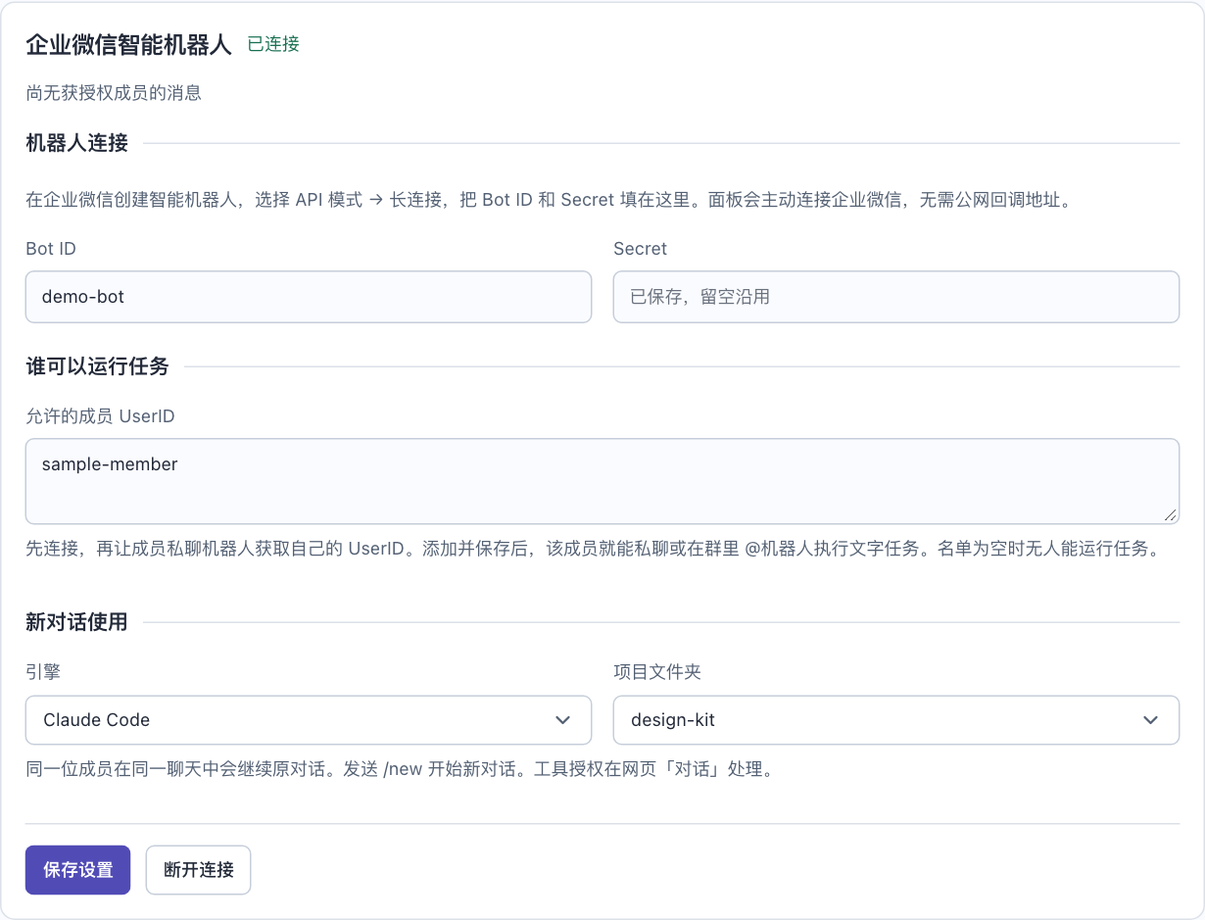
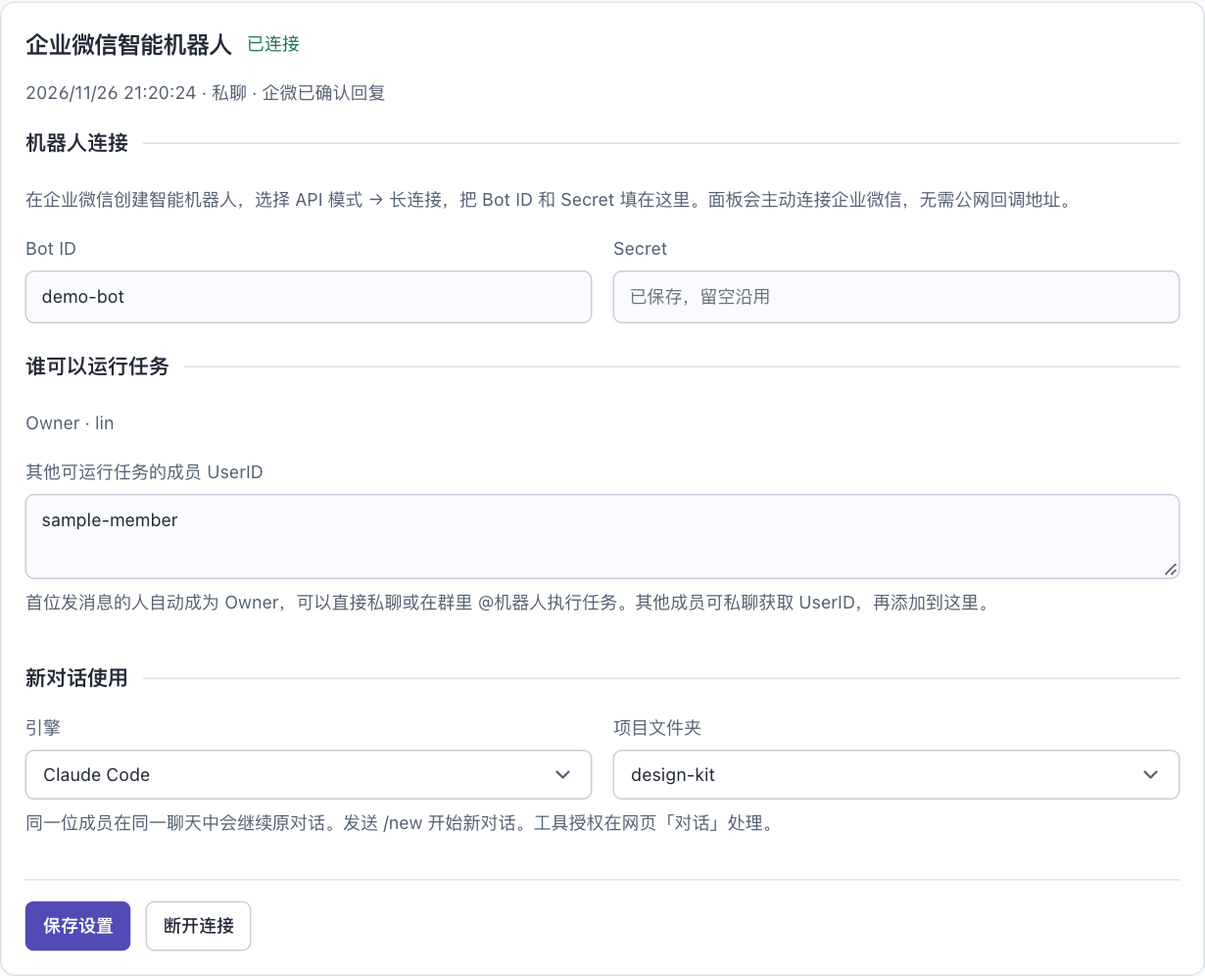
Claim the first WeCom sender, track delivery and install IM command-line tools

diff --git a/channels/wecom.js b/channels/wecom.js
@@ -14,10 +14,11 @@ function write(file, value) {
     fs.renameSync(temporary, file);
   } finally { fs.rmSync(temporary, { force: true }); }
 }
-function fitStream(value) {
+function fitStream(value, limit = 20480) {
   const bytes = Buffer.from(value);
-  if (bytes.length <= 20480) return value;
-  return bytes.subarray(0, 20360).toString('utf8').replace(/\uFFFD$/, '') + '\n\n… 完整结果见面板「对话」。';
+  if (bytes.length <= limit) return value;
+  const suffix = '\n\n… 完整结果见面板「对话」。';
+  return bytes.subarray(0, limit - Buffer.byteLength(suffix)).toString('utf8').replace(/\uFFFD$/, '') + suffix;
 }
 
 function createWecom({ dir, panel, canStart, connect = connectWecom }) {
@@ -29,12 +30,18 @@ function createWecom({ dir, panel, canStart, connect = connectWecom }) {
 
   function reload() {
     config = read(configFile, defaults);
-    saved = read(stateFile, { bindings: {}, seen: [], lastMessageAt: 0 });
+    saved = read(stateFile, { bindings: {}, seen: [], owners: {}, activity: {}, lastMessageAt: 0 });
   }
   reload();
+  function persist(next) { write(stateFile, next); saved = next; }
+  function owner() { return Object.hasOwn(saved.owners, config.botId) ? saved.owners[config.botId] : ''; }
   function status() {
     const { secret, ...visible } = config;
-    return { config: { ...visible, hasSecret: !!secret }, phase, lastError, lastMessageAt: saved.lastMessageAt };
+    const recent = Object.hasOwn(saved.activity, config.botId) && saved.activity[config.botId];
+    const activity = recent ? { receivedAt: recent.receivedAt, chatType: recent.chatType, stage: recent.stage, errorCode: recent.errorCode } : null;
+    const hasHistory = !activity && saved.seen.some(key => JSON.parse(key)[0] === config.botId);
+    return { config: { ...visible, hasSecret: !!secret }, phase, lastError, ownerUserId: owner(), activity,
+      lastMessageAt: activity?.receivedAt || (hasHistory ? saved.lastMessageAt : 0) };
   }
   function stop() {
     generation++;
@@ -47,14 +54,24 @@ function createWecom({ dir, panel, canStart, connect = connectWecom }) {
   }
   function start() {
     if (socket || !config.enabled || !canStart()) return;
+    if (!owner()) {
+      const users = new Set(Object.keys(saved.bindings).map(key => JSON.parse(key)).filter(([id]) => id === config.botId).map(([, , user]) => user));
+      if (users.size === 1) persist({ ...saved, owners: { ...saved.owners, [config.botId]: [...users][0] } });
+    }
     const epoch = ++generation;
     socket = connect({
       botId: config.botId, secret: config.secret,
       onStatus(next, message) {
         if (epoch === generation) { phase = next; lastError = message; }
       },
-      onMessage(body, reply) {
-        receive(body, reply, epoch).catch(() => {
+      onEnter(body, welcome) {
+        if (epoch !== generation || !canStart() || body.aibotid !== config.botId || body.chattype === 'group' || !body.from?.userid) return;
+        welcome('欢迎使用 my-agents。发送 /whoami 查看身份，直接发文字开始对话。').catch(() => {
+          if (epoch === generation) lastError = '欢迎语投递失败，请直接私聊发送 /whoami 测试连接。';
+        });
+      },
+      onMessage(body, reply, sendToChat) {
+        receive(body, reply, sendToChat, epoch).catch(() => {
           if (epoch === generation) lastError = '消息处理或回复失败，请在面板「对话」核对本轮结果。';
         });
       },
@@ -124,31 +141,52 @@ function createWecom({ dir, panel, canStart, connect = connectWecom }) {
     } catch (error) { cancel(); throw error; }
   }
 
-  async function receive(body, reply, epoch) {
+  async function receive(body, reply, sendToChat, epoch) {
     const current = () => epoch === generation && canStart() && config.enabled;
     if (!current() || body?.aibotid !== config.botId || typeof body.msgid !== 'string' || !body.msgid) return;
     const user = body.from?.userid, group = body.chattype === 'group';
-    if (typeof user !== 'string' || !user || !['single', 'group'].includes(body.chattype) || (group && !body.chatid)) return;
-    const authorized = () => current() && config.allowedUsers.includes(user);
-    const stream = randomUUID(), answer = (text, finish = true) => reply(stream, fitStream(text), finish);
-    if (!authorized()) {
-      if (!group) await answer('你的企业微信 UserID 是 ' + user + '。请让面板管理员在「聊天软件 → 企业微信」添加这个成员。');
-      return;
-    }
-
+    if (typeof user !== 'string' || !user.trim() || !['single', 'group'].includes(body.chattype) || (group && (typeof body.chatid !== 'string' || !body.chatid))) return;
+    if (!['text', 'voice', 'image', 'file', 'video', 'mixed'].includes(body.msgtype)) return;
+    if (body.msgtype === 'text' && (typeof body.text?.content !== 'string' || !body.text.content.trim())) return;
+    const botId = config.botId, stream = randomUUID();
+    const authorized = () => current() && (user === owner() || config.allowedUsers.includes(user));
     const key = JSON.stringify([config.botId, group ? body.chatid : null, user]);
     const msgKey = JSON.stringify([config.botId, body.msgid]);
     if (saved.seen.includes(msgKey)) return;
     // Reserve the callback before the first await. Redelivery must not run a second agent.
-    const updated = { ...saved, seen: [...saved.seen.slice(-2047), msgKey], lastMessageAt: Date.now() };
-    write(stateFile, updated);
-    saved = updated;
+    const receivedAt = Date.now();
+    const recent = { msgKey, receivedAt, chatType: body.chattype, stage: 'received' };
+    persist({ ...saved, owners: owner() ? saved.owners : { ...saved.owners, [botId]: user },
+      activity: { ...saved.activity, [botId]: recent }, seen: [...saved.seen.slice(-2047), msgKey], lastMessageAt: receivedAt });
+    function record(stage, error) {
+      if (current() && saved.activity[botId]?.msgKey === msgKey) {
+        persist({ ...saved, activity: { ...saved.activity, [botId]: { ...recent, stage, errorCode: Number.isInteger(error?.code) ? error.code : undefined } } });
+      }
+    }
+    async function answer(text, finish = true) {
+      try {
+        const content = fitStream(text);
+        try { await reply(stream, content, finish); }
+        catch (error) {
+          // Only a definite rejection permits sending a separate reply. A timeout may have delivered.
+          if (!finish || !Number.isInteger(error.code) || !authorized() || !sendToChat) throw error;
+          await sendToChat(group ? body.chatid : user, fitStream(text, 4096));
+        }
+        if (finish && authorized()) record('replied');
+      } catch (error) { record('reply_failed', error); throw error; }
+    }
+    if (!authorized()) {
+      record('restricted');
+      if (!group) await answer('你的企业微信 UserID 是 ' + user + '。请让面板管理员在「聊天软件 → 企业微信」添加这个成员。');
+      return;
+    }
     const prompt = body.msgtype === 'text' && typeof body.text?.content === 'string' ? body.text.content.trim() : '';
     if (!prompt) return answer('目前支持文字消息，请发送文字描述任务。');
-    if (prompt === '/whoami') return answer('你的企业微信 UserID 是 ' + user + '。');
+    if (prompt === '/whoami') return answer('你的企业微信 UserID 是 ' + user + '。' + (user === owner() ? '你是此机器人的 Owner。' : '你是已授权成员。'));
     if (prompt === '/help') return answer('直接发文字继续当前对话。/new 开始新对话，/whoami 查看成员 ID。');
 
     // Order concurrent binding creation and /new for this member and chat.
+    const receipt = prompt === '/new' ? Promise.resolve() : answer('正在处理…', false).catch(() => {});
     const previous = starting.get(key) || Promise.resolve();
     const run = previous.catch(() => {}).then(async () => {
       if (!authorized()) return;
@@ -157,7 +195,7 @@ function createWecom({ dir, panel, canStart, connect = connectWecom }) {
         write(stateFile, saved);
         return answer('下一条消息将开始新对话。');
       }
-      await answer('正在处理…', false);
+      await receipt;
       if (!authorized()) return;
       const messageId = randomUUID(), binding = saved.bindings[key], engine = binding?.engine || config.engine;
       let session;
@@ -167,6 +205,7 @@ function createWecom({ dir, panel, canStart, connect = connectWecom }) {
       if (!current()) return;
       saved.bindings[key] = { id: session.sessionId, engine };
       write(stateFile, saved);
+      record('submitted');
       observe(session.sessionId, messageId, authorized, answer);
     });
     starting.set(key, run);

diff --git a/tests/wecom.test.js b/tests/wecom.test.js
@@ -23,7 +23,7 @@ test('WeCom long connection authenticates, fences membership and resumes only th
   await once(peer, 'listening');
   const url = 'ws://127.0.0.1:' + peer.address().port;
   const replies = [], turns = [], sessions = new Map();
-  let ws, subscriptions = 0, rejectAuth = false, isLeader = true;
+  let ws, subscriptions = 0, rejectAuth = false, isLeader = true, rejectStream = '';
   peer.on('connection', connection => {
     ws = connection;
     connection.on('message', raw => {
@@ -31,8 +31,8 @@ test('WeCom long connection authenticates, fences membership and resumes only th
       if (frame.cmd === 'aibot_subscribe') {
         subscriptions++;
         assert.deepEqual(frame.body, { bot_id:'bot-1', secret:'fixture-secret' });
-      } else if (frame.cmd === 'aibot_respond_msg') replies.push(frame);
-      connection.send(JSON.stringify({ headers:frame.headers, errcode:rejectAuth ? 40013 : 0 }));
+      } else replies.push(frame);
+      connection.send(JSON.stringify({ headers:frame.headers, errcode:rejectAuth ? 40013 : (frame.cmd === 'aibot_respond_msg' && frame.headers.req_id === rejectStream ? 40099 : 0) }));
     });
   });
   const gateway = createWecom({
@@ -70,15 +70,21 @@ test('WeCom long connection authenticates, fences membership and resumes only th
   gateway.start();
   assert.equal(gateway.status().phase, 'disabled');
   assert.throws(() => gateway.configure({allowedUsers:[' * ']}));
-  gateway.configure({enabled:true, botId:'bot-1', secret:'fixture-secret', engine:'claude', allowedUsers:['owner','teammate'], workspaceId:'design'});
+  gateway.configure({enabled:true, botId:'bot-1', secret:'fixture-secret', engine:'claude', allowedUsers:['teammate'], workspaceId:'design'});
   await until(() => gateway.status().phase === 'connected');
   assert.equal(gateway.status().config.hasSecret, true);
   assert.ok(!JSON.stringify(gateway.status()).includes('fixture-secret'));
   assert.equal(fs.statSync(path.join(dir,'panel-wecom.json')).mode & 0o777, 0o600);
   send('invalid', 'wrong-bot', {aibotid:'another'});
+  ws.send(JSON.stringify({cmd:'aibot_event_callback', headers:{req_id:'welcome'},body:{aibotid:'bot-1',from:{userid:'visitor'},event:{eventtype:'enter_chat'}}}));
+  await until(() => frames('welcome').some(f=>f.cmd==='aibot_respond_welcome_msg'));
+  assert.equal(gateway.status().ownerUserId,'');
+  send('claim','/whoami');
   send('group-stranger','unauthorized',{chattype:'group',chatid:'group1',from:{userid:'stranger'}});
   send('private-stranger','identity',{from:{userid:'stranger'}});
   assert.match((await final('private-stranger')).body.stream.content, /UserID 是 stranger/);
+  assert.equal(gateway.status().ownerUserId,'owner');
+  assert.match((await final('claim')).body.stream.content,/Owner/);
   send('unsupported','',{msgtype:'voice'});
   assert.match((await final('unsupported')).body.stream.content, /文字/);
   assert.equal(turns.length,0);
@@ -102,7 +108,7 @@ test('WeCom long connection authenticates, fences membership and resumes only th
   finish(group,'答'.repeat(9000));
   const clipped = (await final('c')).body.stream.content;
   assert.ok(Buffer.byteLength(clipped)<=20480); assert.match(clipped,/完整结果/);
-  gateway.configure({allowedUsers:['owner']}); finish(other,'private answer');
+  gateway.configure({allowedUsers:[]}); finish(other,'private answer');
   send('new','/new'); await final('new'); send('e','fresh');
   const fresh = await waitTurn('fresh'); assert.notEqual(fresh.sessionId,one.sessionId);
   assert.ok(!frames('d').some(f=>f.body.stream.finish));
@@ -114,6 +120,12 @@ test('WeCom long connection authenticates, fences membership and resumes only th
   const recovered=await waitTurn('after restart');
   assert.equal(recovered.sessionId,fresh.sessionId); assert.equal(turns.filter(t=>t.prompt==='fresh').length,1);
   finish(recovered,'ready'); await final('after');
+  await until(()=>gateway.status().activity.stage==='replied');
+  rejectStream='rejected';
+  send('rejected','rejected stream');
+  finish(await waitTurn('rejected stream'),'原聊天的回复');
+  await until(()=>replies.some(f=>f.cmd==='aibot_send_msg' && f.body.chatid==='owner' && f.body.markdown.content==='原聊天的回复'));
+  await until(()=>gateway.status().activity.stage==='replied');
   const before = subscriptions; ws.terminate();
   await until(()=>subscriptions>before && gateway.status().phase==='connected');
   ws.send(JSON.stringify({cmd:'aibot_event_callback',headers:{req_id:'kick'},body:{event:{eventtype:'disconnected_event'}}}));
@@ -121,4 +133,32 @@ test('WeCom long connection authenticates, fences membership and resumes only th
   rejectAuth=true; gateway.configure({enabled:true});
   await until(()=>gateway.status().phase==='error' && gateway.status().lastError.includes('40013'));
   gateway.configure({enabled:false}); assert.equal(gateway.status().phase,'disabled');
+});
+
+test('owner survives restart, is scoped to the bot, and migrates a single historical sender', async t => {
+  const dir = fs.mkdtempSync(path.join(os.tmpdir(), 'wecom-owner-'));
+  t.after(()=>fs.rmSync(dir, {recursive:true, force:true}));
+  const legacy = {bindings:{[JSON.stringify(['old',null,'past'])]:{id:'sample'}}, seen:[], lastMessageAt:0};
+  fs.writeFileSync(path.join(dir,'panel-wecom-state.json'), JSON.stringify(legacy));
+  let connection, leader=true;
+  const gateway=createWecom({dir, panel:{}, canStart:()=>leader, connect: opts=>{ connection=opts; return {close(){}}; }});
+  const use=botId=>gateway.configure({enabled:true,botId,secret:'test-secret'});
+  use('old');
+  assert.equal(gateway.status().ownerUserId,'past');
+  use('__proto__');
+  const message={aibotid:'__proto__',msgid:'one',from:{userid:'new-owner'},chattype:'single',msgtype:'text',text:{content:'/whoami'}};
+  const replies=[];
+  const reply=async (...args)=>{replies.push(args);};
+  leader=false;
+  connection.onMessage(message,reply);
+  assert.equal(gateway.status().ownerUserId,'');
+  leader=true;
+  connection.onMessage(message,reply);
+  connection.onMessage({...message,msgid:'two',from:{userid:'another'}},reply);
+  await until(()=>replies.length===2);
+  assert.equal(gateway.status().ownerUserId,'new-owner');
+  use('old'); gateway.stop(); gateway.reload(); gateway.start();
+  assert.equal(gateway.status().ownerUserId,'past');
+  use('__proto__'); assert.equal(gateway.status().ownerUserId,'new-owner');
+  gateway.stop();
 });

diff --git a/wecom-ui.js b/wecom-ui.js
@@ -21,8 +21,8 @@ async function renderWecom(revision) {
         <div class="channel-fields"><label>Bot ID<input name="botId" required maxlength="256" autocomplete="off" spellcheck="false" value="${esc(config.botId)}"></label>
         <label>Secret<input name="secret" type="password" maxlength="2048" autocomplete="new-password" placeholder="${config.hasSecret ? t('已保存，留空沿用', 'Saved · leave blank to keep') : ''}" ${config.hasSecret ? '' : 'required'}></label></div></fieldset>
         <fieldset><legend>${t('谁可以运行任务', 'Who can run tasks')}</legend>
-        <label>${t('允许的成员 UserID', 'Allowed member UserIDs')}<textarea rows="2" name="allowedUsers" spellcheck="false" placeholder="${t('每行一个 UserID', 'One UserID per line')}">${esc(config.allowedUsers.join('\n'))}</textarea></label>
-        <p>${t('先连接，再让成员私聊机器人获取自己的 UserID。添加并保存后，该成员就能私聊或在群里 @机器人执行文字任务。名单为空时无人能运行任务。', 'Connect first. Each member can message the bot privately to get their UserID. Once saved here, they can send tasks privately or mention the bot in a group. An empty list allows nobody to run tasks.')}</p></fieldset>
+        <p data-owner></p><label>${t('其他可运行任务的成员 UserID', 'Additional member UserIDs')}<textarea rows="2" name="allowedUsers" spellcheck="false" placeholder="${t('每行一个 UserID', 'One UserID per line')}">${esc(config.allowedUsers.join('\n'))}</textarea></label>
+        <p>${t('首位发消息的人自动成为 Owner，可以直接私聊或在群里 @机器人执行任务。其他成员可私聊获取 UserID，再添加到这里。', 'The first sender becomes the owner and can DM the bot or mention it in a group. Other members can DM for their UserID and be added here.')}</p></fieldset>
         <fieldset><legend>${t('新对话使用', 'New conversation defaults')}</legend><div class="channel-fields">
         <label>${t('引擎', 'Engine')}<select name="engine"><option value="codex">Codex</option><option value="claude">Claude Code</option></select></label>
         <label>${t('项目文件夹', 'Project folder')}<select name="workspaceId"><option value="">${t('默认目录', 'Default folder')}</option>${workspaces.config.projects.map(item => '<option value="'+esc(item.id)+'">'+esc(item.name)+'</option>').join('')}</select></label></div>
@@ -39,9 +39,17 @@ async function renderWecom(revision) {
       section.querySelector('[data-phase]').dataset.online = String(status.phase === 'connected');
       const badge = document.querySelector('[data-im-channel="wecom"] .im-channel-state');
       if (badge) badge.textContent = phase;
-      section.querySelector('[data-activity]').textContent = status.lastMessageAt
-        ? rt('最近收信', 'Last received') + ' · ' + new Date(status.lastMessageAt).toLocaleString()
-        : rt('尚无获授权成员的消息', 'No messages from authorized members yet');
+      section.querySelector('[data-owner]').textContent = status.ownerUserId ? 'Owner · ' + status.ownerUserId : rt('等待首位发消息的成员', 'Waiting for the first sender');
+      const stages = { received: ['已收信', 'Received'], restricted: ['成员无执行权限', 'Member access restricted'],
+        submitted: ['已提交任务，等待回复', 'Task submitted, awaiting reply'], replied: ['企微已确认回复', 'Reply accepted by WeCom'],
+        reply_failed: ['回复投递失败', 'Reply delivery failed'] };
+      const activity = status.activity;
+      section.querySelector('[data-activity]').textContent = activity
+        ? [new Date(activity.receivedAt).toLocaleString(), activity.chatType === 'group' ? rt('群聊', 'Group') : rt('私聊', 'DM'),
+           rt(...(stages[activity.stage] || stages.received)), activity.errorCode].filter(Boolean).join(' · ')
+        : status.lastMessageAt
+        ? rt('最近收信（旧版未记录回复回执）', 'Last received (reply receipt unavailable)') + ' · ' + new Date(status.lastMessageAt).toLocaleString()
+        : rt('尚未收到消息。私聊发送 /whoami 测试连接。', 'No messages yet. DM /whoami to test.');
       section.querySelector('[data-connection-error]').textContent = status.lastError || '';
       if (status.phase === 'error') form.querySelector('[type=submit]').textContent = rt('保存并重新连接', 'Save and reconnect');
     }

diff --git a/index.html b/index.html
@@ -136,7 +136,7 @@ function userGuideSections() {
     ], target: 'sessions', action: copy('查看会话', 'View sessions') },
     { id: 'im', title: copy('飞书与 Lark', 'Feishu and Lark'), lead: copy('发送 /help 可打开「找会话」和「新建任务」。简洁群仅显示该群可用的文字命令。', 'Send /help for Find session and New task. Basic groups receive commands for their access level.'), groups: feishuHelp(ENGINES.map(engine => engine.id), { copy }), note: copy('首次连接时在面板生成配对码，再私聊机器人发送 /pair 配对码。权限和回复格式按聊天生效。', 'For first-time pairing, generate a code in the panel and DM /pair CODE to the bot. Chat access and reply format apply per chat.'), target: 'im', channel: 'feishu', action: copy('打开聊天软件', 'Open chat apps') },
     { id: 'wecom', title: copy('企业微信', 'WeCom'), lead: copy('在「聊天软件 → 企业微信」填写智能机器人的 Bot ID 和 Secret，保存并连接。成员可以私聊，或在群里 @机器人。', 'Enter the intelligent bot’s Bot ID and Secret in Chat apps → WeCom, then save and connect. Members can DM the bot or mention it in a group.'), rows: [
-      ['/whoami', copy('查看自己的 UserID，将它加入面板的允许成员后即可执行任务。', 'Get your UserID and add it to the panel’s allowed members to run tasks.')],
+      ['/whoami', copy('查看自己的 UserID 和身份。首位发消息的成员自动成为 Owner，其他成员可由管理员添加。', 'Get your UserID and role. The first sender becomes the owner. An administrator can add other members.')],
       ['/new', copy('下一条文字开始新对话。直接发文字会继续当前对话。', 'Start a new session on the next message. Ordinary text continues the current conversation.')],
       ['/help', copy('查看企业微信文字命令。完整执行记录和授权在网页对话中。', 'Show WeCom text commands. Open the web conversation for full output and approvals.')],
     ], target: 'im', channel: 'wecom', action: copy('打开聊天软件', 'Open chat apps') },

diff --git a/channels/wecom-socket.js b/channels/wecom-socket.js
@@ -2,7 +2,7 @@
 const WebSocket = require('ws');
 const { randomUUID } = require('crypto');
 
-function connectWecom({ botId, secret, onMessage, onStatus, url = 'wss://openws.work.weixin.qq.com' }) {
+function connectWecom({ botId, secret, onMessage, onEnter, onStatus, url = 'wss://openws.work.weixin.qq.com' }) {
   let socket, retry, interval, attempts = 0, stopped = false;
   const pending = new Map();
   function request(cmd, body, reqId = cmd + '_' + randomUUID()) {
@@ -39,9 +39,13 @@ function connectWecom({ botId, secret, onMessage, onStatus, url = 'wss://openws.
       const id = frame?.headers?.req_id;
       if (!id || stopped) return;
       if (frame.cmd === 'aibot_msg_callback') {
-        if (ready) onMessage(frame.body, (stream, content, finish) => request('aibot_respond_msg', { msgtype: 'stream', stream: { id: stream, content, finish } }, id));
+        if (ready) onMessage(frame.body,
+          (stream, content, finish) => request('aibot_respond_msg', { msgtype: 'stream', stream: { id: stream, content, finish } }, id),
+          (chatid, content) => request('aibot_send_msg', { chatid, msgtype: 'markdown', markdown: { content } }));
       } else if (frame.cmd === 'aibot_event_callback') {
-        if (frame.body?.event?.eventtype === 'disconnected_event') {
+        if (ready && frame.body?.event?.eventtype === 'enter_chat') {
+          onEnter?.(frame.body, content => request('aibot_respond_welcome_msg', { msgtype: 'text', text: { content } }, id));
+        } else if (frame.body?.event?.eventtype === 'disconnected_event') {
           stopped = true; onStatus('error', '同一个机器人已在别处连接。关闭重复连接后，再点重新连接。'); ws.terminate();
         }
       } else if (typeof frame.errcode === 'number') {

diff --git a/core/im-clis.js b/core/im-clis.js
@@ -1,0 +1,31 @@
+const os = require('node:os');
+const path = require('node:path');
+const { spawnSync } = require('node:child_process');
+
+const prefix = path.join(os.homedir(), '.local');
+const windows = process.platform === 'win32';
+const bin = windows ? prefix : path.join(prefix, 'bin');
+const packages = { 'lark-cli': '@larksuite/cli@1.0.100', 'wecom-cli': '@wecom/cli@1.3.4' };
+
+// Login shells and service managers can supply different search paths.
+function addIMToolsPath(env = process.env) {
+  const dirs = [bin, path.join(os.homedir(), '.npm-global', 'bin')];
+  if (process.platform === 'linux') dirs.push('/home/linuxbrew/.linuxbrew/bin');
+  env.PATH = [...new Set([...(env.PATH || '').split(path.delimiter).filter(Boolean), ...dirs])].join(path.delimiter);
+}
+
+function install() {
+  addIMToolsPath();
+  const available = name => spawnSync(name, ['--version'], { stdio: 'ignore', timeout: 12000, shell: windows }).status === 0;
+  const missing = Object.keys(packages).filter(name => !available(name));
+  if (!missing.length) return;
+  const args = ['install', '--global', '--prefix', prefix, '--no-fund', '--no-audit', ...missing.map(name => packages[name])];
+  const npm = process.env.npm_execpath;
+  const result = npm && /\.c?js$/i.test(npm)
+    ? spawnSync(process.execPath, [npm, ...args], { stdio: 'inherit' })
+    : spawnSync(windows ? 'npm.cmd' : 'npm', args, { stdio: 'inherit', shell: windows });
+  if (result.status !== 0 || !missing.every(available)) throw Error('聊天工具安装失败，请检查 npm 和网络后重新运行安装。');
+}
+
+if (require.main === module) install();
+module.exports = { addIMToolsPath };

diff --git a/node/provision.js b/node/provision.js
@@ -87,6 +87,8 @@ async function provisionMachine({ ssh: target, repoDir = path.resolve(__dirname,
     const repair = existingCommand ? '' : `cd ${source}; node -e 'if (!["my-agents","@wuchupeng/my-agents"].includes(require("./package.json").name)) process.exit(1)';
       node -e 'require("ws")' 2>/dev/null || npm install --omit=dev --no-package-lock --no-audit --no-fund;`;
     await ssh(target, `set -e; ${runtimePath}; ${repair} ${server} node --help`, { timeout: 600000 });
+    step('检查飞书和企业微信 CLI');
+    await ssh(target, `${runtimePath}; sh -c ${quote('set -eu; tmp=$(mktemp -d); trap \'rm -rf "$tmp"\' EXIT; cat > "$tmp/install.cjs"; node "$tmp/install.cjs"')}`, { input: fs.createReadStream(path.join(__dirname, '../core/im-clis.js')), timeout: 600000 });
   }
   const engines = [found.claude && 'Claude Code', found.codex && 'Codex'].filter(Boolean);
   return { command: `${runtimePath}; exec ${server} node --stdio`, installed, hostname: found.hostname, engines,

diff --git a/server.js b/server.js
@@ -9,6 +9,7 @@
  *   - Agent ~/.claude/agents/<name>.md
  */
 // New names take precedence; legacy environment variables remain supported.
+require('./core/im-clis').addIMToolsPath();
 for (const suffix of ['NO_PROXY_SETUP', 'RC_FILE', 'CODEX_CAPTURE', 'CHAT_TIMEOUT_MS', 'BACKGROUND_SERVICE']) {
   const value = process.env['MY_AGENTS_' + suffix];
   if (value !== undefined) process.env['CCP_' + suffix] = value;

diff --git a/docs/im-channels.md b/docs/im-channels.md
@@ -6,7 +6,7 @@
 
 1. 在企业微信创建智能机器人，在 API 模式下选择长连接，取得 Bot ID 和 Secret。此方式需要机器人创建权限和面板到企业微信公有云的出站 WebSocket 连接。
 2. 打开 `/im?channel=wecom`。填入 Bot ID 和 Secret，选择 Codex 或 Claude Code，指定新对话使用的项目文件夹。选择默认目录时使用执行机器的默认目录。
-3. 点「保存并连接」，状态变为「已连接」后，让成员私聊机器人。首次联系会收到自己的 UserID。管理员将该 ID 添加到「允许的成员」并保存后，该成员便可以执行任务。初始空名单不允许任何人运行任务。
+3. 点「保存并连接」，状态变为「已连接」后，由希望担任 Owner 的成员先私聊发送 `/whoami`。首位发消息的人自动成为该机器人的 Owner，可以直接执行任务。打开聊天窗口只触发欢迎语。其他成员可私聊获取 UserID，再由面板管理员添加。
 4. 私聊发送文字，或在群里 @机器人发送文字。机器人会先确认收到任务，然后把结果发回原聊天。群里回复的内容对群成员可见。同一位成员在同一个聊天内连续发消息，会续接同一对话；不同成员、群和机器人各自独立。网页「对话」可以查看执行记录、完整输出和待处理的工具授权。
 
 | 消息 | 结果 |
@@ -17,6 +17,10 @@
 | `/help` | 查看文字命令。 |
 
 「断开连接」会停止接收和回复；已经提交的工作可在网页对话中查看。Secret 保存后不回显，更换 Bot ID 时需要重新填写。认证被拒绝时核对凭据并重新连接。连接被另一客户端取代时，先关闭另一处连接。普通网络断开会自动重连。集群由持有租约的主面板连接机器人。
+
+排查收不到回复时，在接入页查看最近一次收信的时间、私聊或群聊、任务提交和企微回执。群里需要 @机器人。
+
+安装 my-agents 时会检查并补装飞书 `lark-cli` 和企业微信 `wecom-cli`。查文档、邮件、日程等业务能力时，在执行机器运行 `wecom-cli auth init --manual`，按提示输入已有机器人的凭据。运行 `wecom-cli auth show --status` 查看授权状态，`wecom-cli --help` 查看该身份可用的能力。手机「编辑智能机器人 → 能力简介 → 丰富的 AI 开放能力」可以查看能力说明。 [企业微信 CLI 文档](https://github.com/WecomTeam/wecom-cli/blob/main/docs/cli-reference.md)
 
 长回复会在企业微信的长度上限处截断，完整答复留在网页。当前支持文字任务。助理读取个人飞书聊天、飞书交互卡片以及附件处理有各自的接入和权限范围。 [企业微信官方 Node SDK 和长连接协议示例](https://github.com/WecomTeam/aibot-node-sdk)
 

diff --git a/README.md b/README.md
@@ -58,9 +58,9 @@ curl -fsSL https://raw.githubusercontent.com/13days/my-agents/main/install.sh | 
 
 1. 在企业微信创建**智能机器人**，选择 **API 模式 → 长连接**，取得 Bot ID 和 Secret。
 2. 打开 **聊天软件 → 企业微信**，填入凭据，选择新对话使用的引擎和项目，点「保存并连接」。面板只需要能向外连接企业微信。
-3. 让成员私聊机器人获取自己的 UserID，在面板的「允许的成员」填入并保存。该成员现在可以私聊或在群里 @机器人发送文字任务。结果回到原聊天，也能在网页「对话」查看。对同一聊天发下一条会续接，单独发 `/new` 后再发任务可另起一轮对话。
+3. 首位给机器人发消息的成员自动成为 Owner，可以直接执行任务。其他成员可私聊获取 UserID，由面板管理员添加。获授权成员可以私聊或在群里 @机器人发送文字任务。结果回到原聊天，也能在网页「对话」查看。对同一聊天发下一条会续接，单独发 `/new` 后再发任务可另起一轮对话。
 
-企业微信的成员名单与飞书独立。飞书的分享卡片和助理读取个人聊天仍通过飞书配置。 [企业微信接入说明](docs/im-channels.md)
+安装时自动检查并补装 `lark-cli` 和 `wecom-cli`。企业微信的成员名单与飞书独立。飞书的分享卡片和助理读取个人聊天仍通过飞书配置。 [企业微信接入说明](docs/im-channels.md)
 
 ![企业微信接入页，机器人连接、可执行任务的成员和新对话默认项目](docs/wecom-setup-preview.png)
 

diff --git a/README.en.md b/README.en.md
@@ -58,7 +58,7 @@ Under **Chat apps → Feishu → Access**, the group and direct-message rules ap
 
 Create an **intelligent bot** in WeCom, select **API mode → Long connection**, and copy its Bot ID and Secret. Under **Chat apps → WeCom**, enter the credentials, select the engine and project for new conversations, then choose **Save and connect**. Only an outbound connection is required.
 
-Ask each member to message the bot privately to get their UserID. Save that ID in **Allowed member UserIDs**. They can now send a text task privately or mention the bot in a group. The answer returns to that chat and is available in the web conversation. Follow-ups reuse the same conversation per member and chat. Send `/new` on its own to start another. Feishu share cards and the assistant’s personal-history source are configured separately. [WeCom setup (Chinese)](docs/im-channels.md)
+The first sender becomes the bot owner automatically. Other members can DM for their UserID and be added under **Additional member UserIDs**. Installation includes `lark-cli` and `wecom-cli`. Authorized members can send a text task privately or mention the bot in a group. The answer returns to that chat and is available in the web conversation. Follow-ups reuse the same conversation per member and chat. Send `/new` on its own to start another. Feishu share cards and the assistant’s personal-history source are configured separately. [WeCom setup (Chinese)](docs/im-channels.md)
 
 ![WeCom setup with bot credentials, allowed members and project defaults (Chinese UI)](docs/wecom-setup-preview.png)
 
